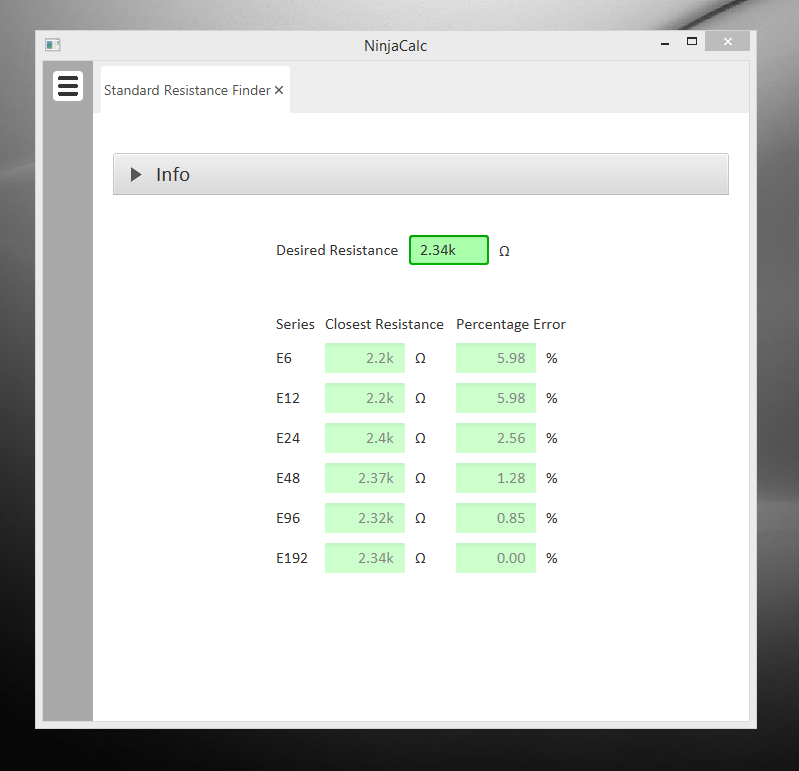
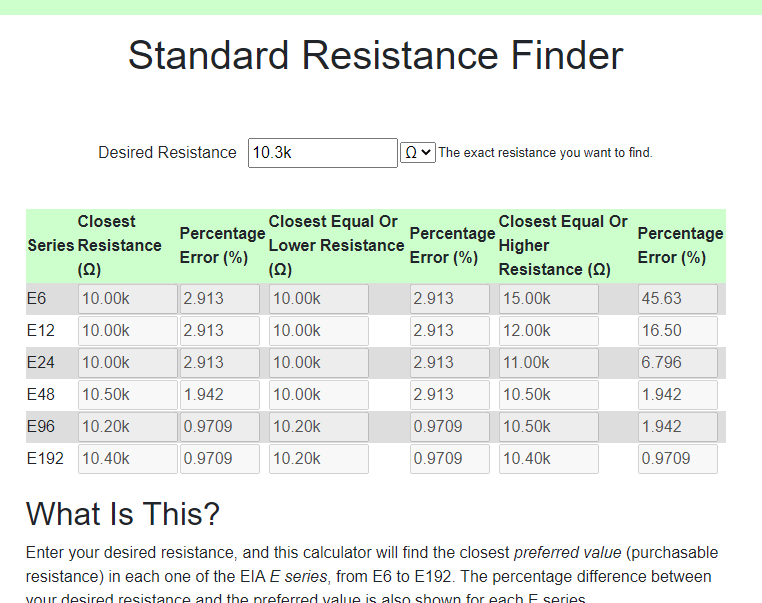
Updated the resistors page with newer screenshots of the E series calculator on NinjaCalc.

diff --git a/content/electronics/components/resistors/_index.md b/content/electronics/components/resistors/_index.md
@@ -2,8 +2,9 @@
 author: "gbmhunter"
 categories: [ "Electronics", "Electronic Components" ]
 date: 2012-05-14
+description: "Schematic symbols, series and parallel behaviour, manufacturing processes, the E series, tolerances, variable resistors, volume resistance and more info about the electrical components called resistors."
 draft: false
-lastmod: 2020-10-15
+lastmod: 2020-12-01
 tags: [ "resistors", "resistors", "components", "electronics", "schematic symbols", "tolerances", "E series", "packages", "thick film", "thin film" ]
 title: "Resistors"
 type: "page"
@@ -44,25 +45,25 @@ The most commonly-used resistor schematic symbols are shown below. I prefer the 
 
 The behaviour of resistors when connected together in series and in parallel is exactly the same behaviour inductors exhibit, and exactly the opposite behaviour of what capacitors exhibit.
 
-### Resistors In Parallel.
+### Resistors In Parallel
 
 When two resistors are connected in parallel, the equivalent total resistance follows the inverse law:
 
-<div>$$ R_{total} = \frac{1}{\frac{1}{R1} + \frac{1}{R2}} $$</div>
+<p>$$ R_{total} = \frac{1}{\frac{1}{R1} + \frac{1}{R2}} $$</p>
 
 It is usually easier to remember this equation as:
 
-<div>$$ \frac{1}{R_{total}} = \frac{1}{R1} + \frac{1}{R2} $$</div>
+<p>$$ \frac{1}{R_{total}} = \frac{1}{R1} + \frac{1}{R2} $$</p>
 
 The following diagram shows this:
 
 {{< img src="resistors-in-parallel-equivalence-with-equation.png" width="723px" caption="Two resistors in parallel can be treated as one resistor using the shown equation."  >}}
 
-### Resistors In Series.
+### Resistors In Series
 
 When two resistors are connected in series, the total equivalent resistance is equal to the sum of individual resistances.
 
-<div>$$ R_{total} = R1 + R2 $$</div>
+<p>$$ R_{total} = R1 + R2 $$</p>
 
 This is shown in the diagram below:
 
@@ -136,7 +137,6 @@ Simply, this means that each series guarantees you will be able to find a resist
 Confusingly, for each series, you can get ever so slightly higher errors than what is listed below. This is due to the final rounding process (e.g. E96 resistors are rounded to three significant figures).
 {{% /note %}}
 
-
 <table>
   <thead>
     <tr>
@@ -144,32 +144,33 @@ Confusingly, for each series, you can get ever so slightly higher errors than wh
       <th>Maximum Percentage Error</th>
     </tr>
   </thead>
-<tbody >
-<tr>
-<td >E6
-</td>
-<td >20%
-</td></tr><tr >
-<td >E12
-</td>
-<td >10%
-</td></tr><tr >
-<td >E24
-</td>
-<td >5%
-</td></tr><tr >
-<td >E48
-</td>
-<td >2%
-</td></tr><tr >
-<td >E96
-</td>
-<td >1%
-</td></tr><tr >
-<td >E192
-</td>
-<td >0.5%
-</td></tr></tbody></table>
+  <tbody>
+    <tr>
+      <td>E6</td>
+      <td>20%</td>
+    </tr>
+    <tr>
+      <td>E12</td>
+      <td>10%</td>
+    </tr>
+    <tr>
+      <td>E24</td>
+      <td>5%</td>
+    </tr>
+    <tr>
+      <td>E48</td>
+      <td>2%</td>
+    </tr>
+    <tr>
+      <td>E96</td>
+      <td>1%</td>
+    </tr>
+    <tr>
+      <td>E192</td>
+      <td>0.5%</td>
+    </tr>
+  </tbody>
+</table>
 
 The E192 series is also used for 0.25% and 0.1% error resistors.
 
@@ -180,13 +181,12 @@ E6[6] = {10, 15, 22, 33, 47, 68};
 
 E12[12] = {10, 12, 15, 18, 22, 27, 33, 39, 47, 56, 68, 82};
 ```
-    
 
 Note how there are two digits of precision for E6, E12, and E24 values, while 3 digits of precision for E48, E96 and E192 values. These two sets of three series share special properties with one another. E6 is every second value from the E12 series, and E12 is every second value from the E24 series. Similarly, E48 is every second value from the E96 series, and E96 is every second value from the E192 series.
 
 The values come from the exponential number series, using the equation:
 
-<div>$$v(i, n) = 10^{i/n}$$</div>
+<p>$$v(i, n) = 10^{i/n}$$</p>
 
 <p class="centered">
     where:<br>
@@ -196,9 +196,9 @@ The values come from the exponential number series, using the equation:
 
 See [Wikipedia - Preferred Number](https://en.wikipedia.org/wiki/Preferred_number), for information on these series.
 
-[NinjaCalc, a free embedded engineering calculator toolbox](http://gbmhunter.github.io/NinjaCalc/), can easily find the closest E-series resistance to your desired resistance.
+[The NinjaCalc Standard Resistance Finder calculator](https://ninja-calc.mbedded.ninja/calculators/electronics/basics/standard-resistance-finder), can easily find the closest E-series resistance to your desired resistance.
 
-{{< img src="screenshot-ninjacalc-standard-resistance-finder-preferred-value-e6-e192-324.png" width="552px" caption="NinjaCalc's 'Standard Resistance Finder' calculator showing the closest E-series values to a desired resistance of 2.34kΩ."  >}}
+{{% img src="screenshot-ninjacalc-standard-resistance-finder-preferred-value-e6-e192-324.png" width="552px" caption="NinjaCalc's 'Standard Resistance Finder' calculator showing the closest E-series values to a desired resistance of 10.3kΩ (with closest highest and closest lowest resistance)." %}}
 
 ## Manufacturing Processes
 
@@ -217,6 +217,8 @@ Even rarer than thick and thin film resistors, metal foil resistor technology al
 ## Power Resistors
 
 Power resistors is a term used with resistors which are usually rated to dissipate 1W or more of power (without heatsinking).
+
+{{% img src="bunch-of-ceramic-power-resistors.jpg" width="600px" caption="A bunch of ceramic power resistors rated from 5 to 25W of power dissipation." %}}
 
 They can be used to intentionally heat things, as the picture below shows. This image below is a common 5W resistor being used to heat a small container of oil, with a copper thermostat from a hot water cylinder being used to control the temperature.
 
